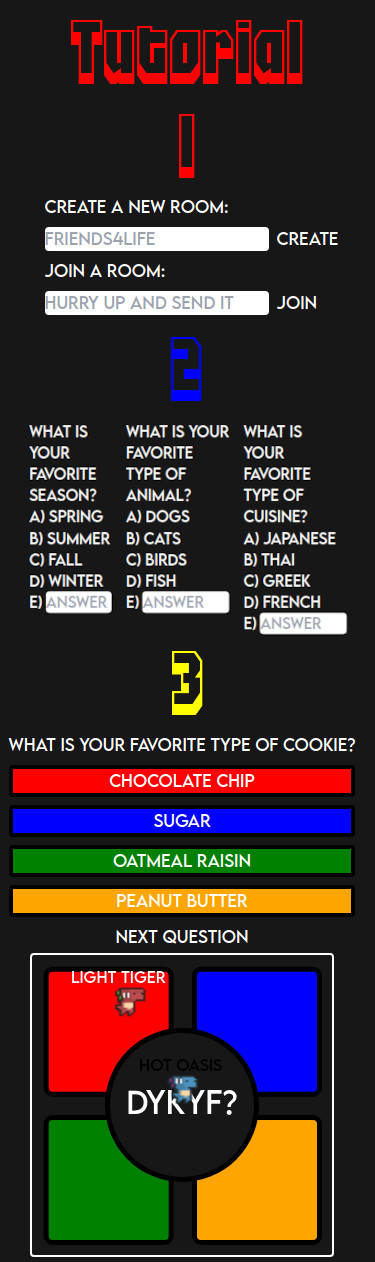
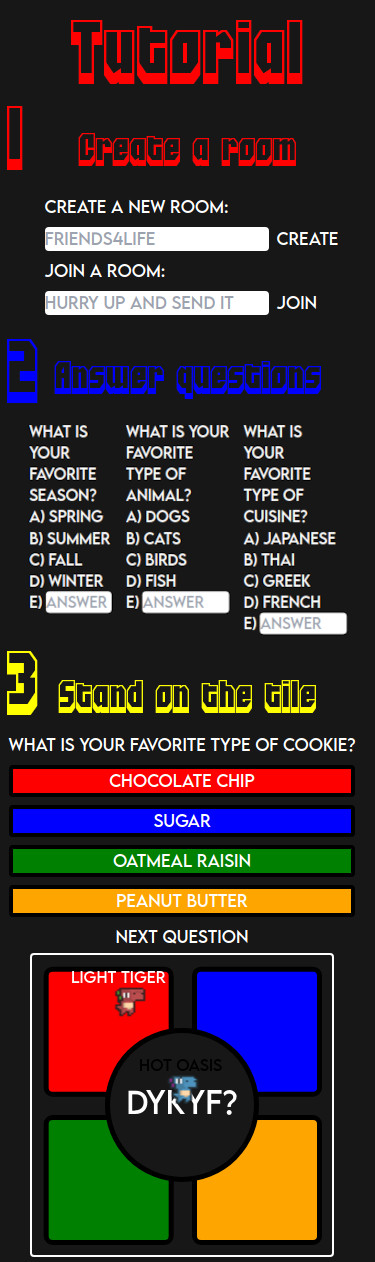
added tutorial modal

diff --git a/src/JoinOrHost.jsx b/src/JoinOrHost.jsx
@@ -4,11 +4,14 @@ import { v4 as uuidv4 } from "uuid";
 import bannerTransparent from "./assets/misc/BannerTransparent.png";
 import PreGame from "./PreGame";
 import Bots from "./Bots";
+import tutorialImg from "./assets/misc/thumb-1920-1154544.jpg";
+
 function JoinOrHost(props) {
   const [players, setPlayers] = useState([]);
   // const [manualJoin, setManualJoin] = useState("");
   const [roomTakenErr, setRoomTakenErr] = useState(false);
   const [roomDoesntExistErr, setRoomDoesntExistErr] = useState(false);
+
   let {
     foundRoom,
     setFoundRoom,
@@ -28,6 +31,8 @@ function JoinOrHost(props) {
     correctAnswerColor,
     setCorrectAnswerColor,
     connectingToServer,
+    showTutorial,
+    setShowTutorial,
   } = props;
   useEffect(() => {
     socket.on("connect", () => {
@@ -180,9 +185,27 @@ function JoinOrHost(props) {
           </div>
         )}
       </div>
+      <button onClick={() => setShowTutorial(!showTutorial)}>Tutorial</button>
+      {showTutorial && (
+        <div className="">
+          <div className="z-50 flex justify-center absolute top-0 left-0 right-0 bottom-0 overflow-y-auto bg-neutral-900/80">
+            <button
+              className="absolute bg-neutral-900 pt-4"
+              onClick={() => setShowTutorial(!showTutorial)}
+            >
+              <p className="text-center max-w-[375px] p-2">
+                A guessing game about friends where players answer questions
+                about each other. Highest score wins!
+              </p>
+              {showTutorial ? <>Close</> : <>Tutorial</>}
+              <img className="h-max" src={tutorialImg} alt="tutorial" />
+            </button>
+          </div>
+        </div>
+      )}
 
       {foundRoom === false || questionsAnswered === false ? (
-        <Bots username={username} />
+        <Bots username={username} showTutorial={showTutorial} />
       ) : (
         <></>
       )}

diff --git a/src/App.jsx b/src/App.jsx
@@ -16,6 +16,7 @@ function App() {
   let [correctAnswerColor, setCorrectAnswerColor] = useState();
   let [connectingToServer, setConnectingToServer] = useState(true);
   const [showTutorial, setShowTutorial] = useState(false);
+
   const [attempts, setAttempts] = useState(0);
   const words = useRandomWord();
 
@@ -25,10 +26,8 @@ function App() {
   useEffect(() => {
     if (!socket.connected === false) {
       setConnectingToServer(false);
-      console.log("connected!");
     } else {
       retry();
-      console.log(retry);
     }
   }, [attempts]);
   function retry() {
@@ -41,8 +40,13 @@ function App() {
   return (
     <RoomProvider>
       <div className="min-h-screen bg-neutral-900 text-white">
-        <div className="h-full items-center justify-center flex flex-col">
-          <button onClick={() => setShowTutorial(true)}>Tutorial</button>
+        <div
+          className={
+            showTutorial
+              ? "overflow-hidden h-screen items-center justify-center flex flex-col"
+              : "overflow-auto h-full items-center justify-center flex flex-col"
+          }
+        >
           <JoinOrHost
             foundRoom={foundRoom}
             setFoundRoom={setFoundRoom}
@@ -62,6 +66,8 @@ function App() {
             correctAnswerColor={correctAnswerColor}
             setCorrectAnswerColor={setCorrectAnswerColor}
             connectingToServer={connectingToServer}
+            setShowTutorial={setShowTutorial}
+            showTutorial={showTutorial}
           />
         </div>
         {foundRoom && questionsAnswered && (
